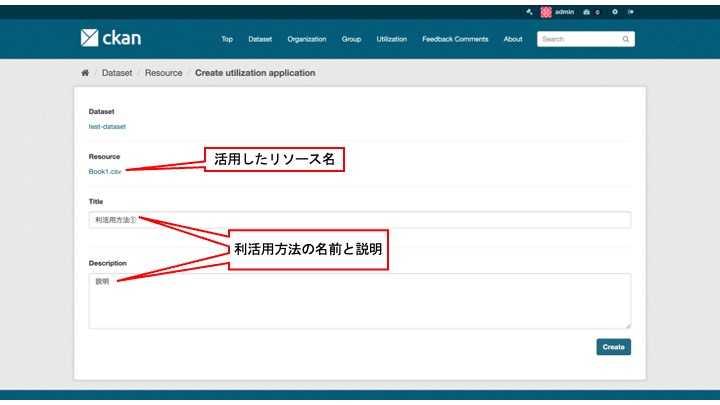
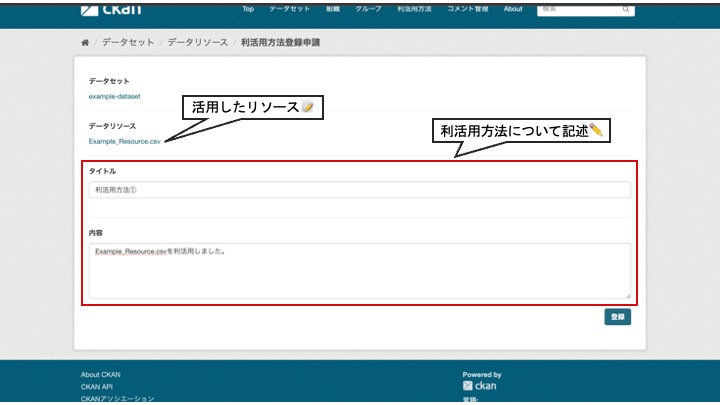
update the pictures of utilization

diff --git a/docs/ja/utilization.md b/docs/ja/utilization.md
@@ -27,7 +27,7 @@
 
 【リソース詳細画面　イメージ図】  
 
-![utilization モジュール　リソース詳細画面　イメージ図](../assets/utilizations_image.jpg)
+![utilization モジュール　リソース詳細画面　イメージ図](../assets/utilization_comment_image.jpg)
 
 * データを利活用したアプリやシステムに対して以下のことが出来ます
   * 利活用方法の紹介
